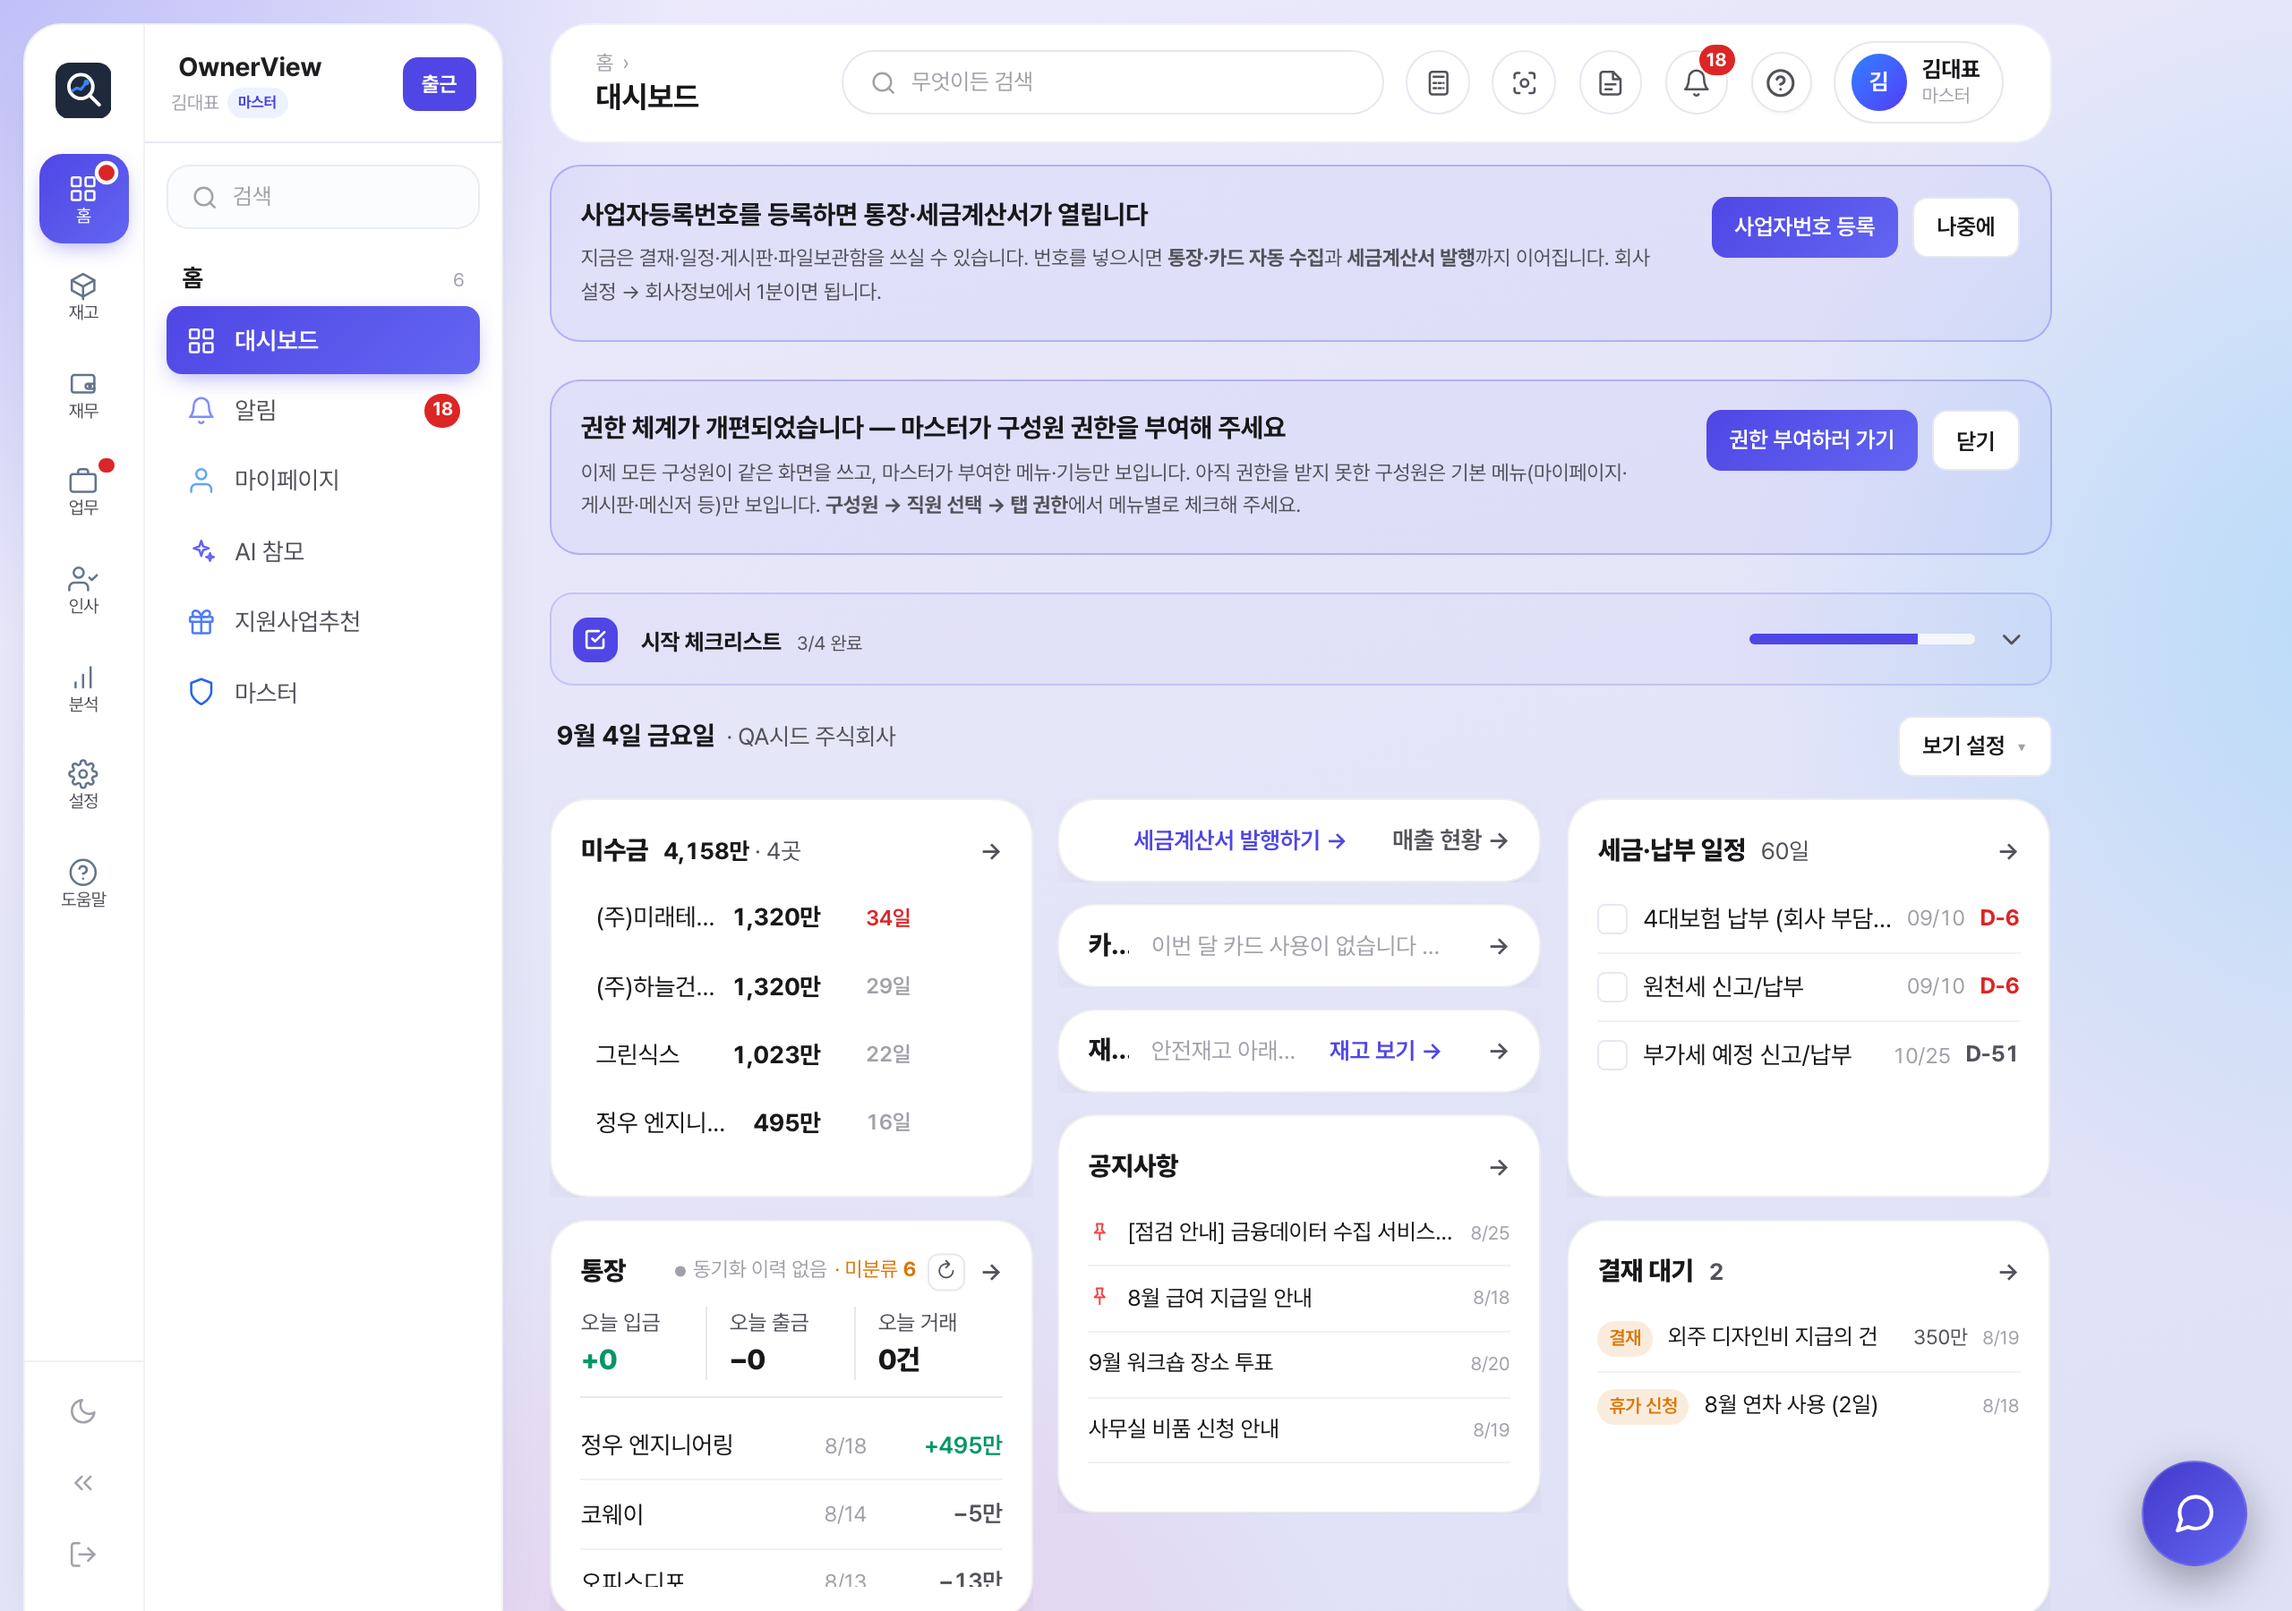
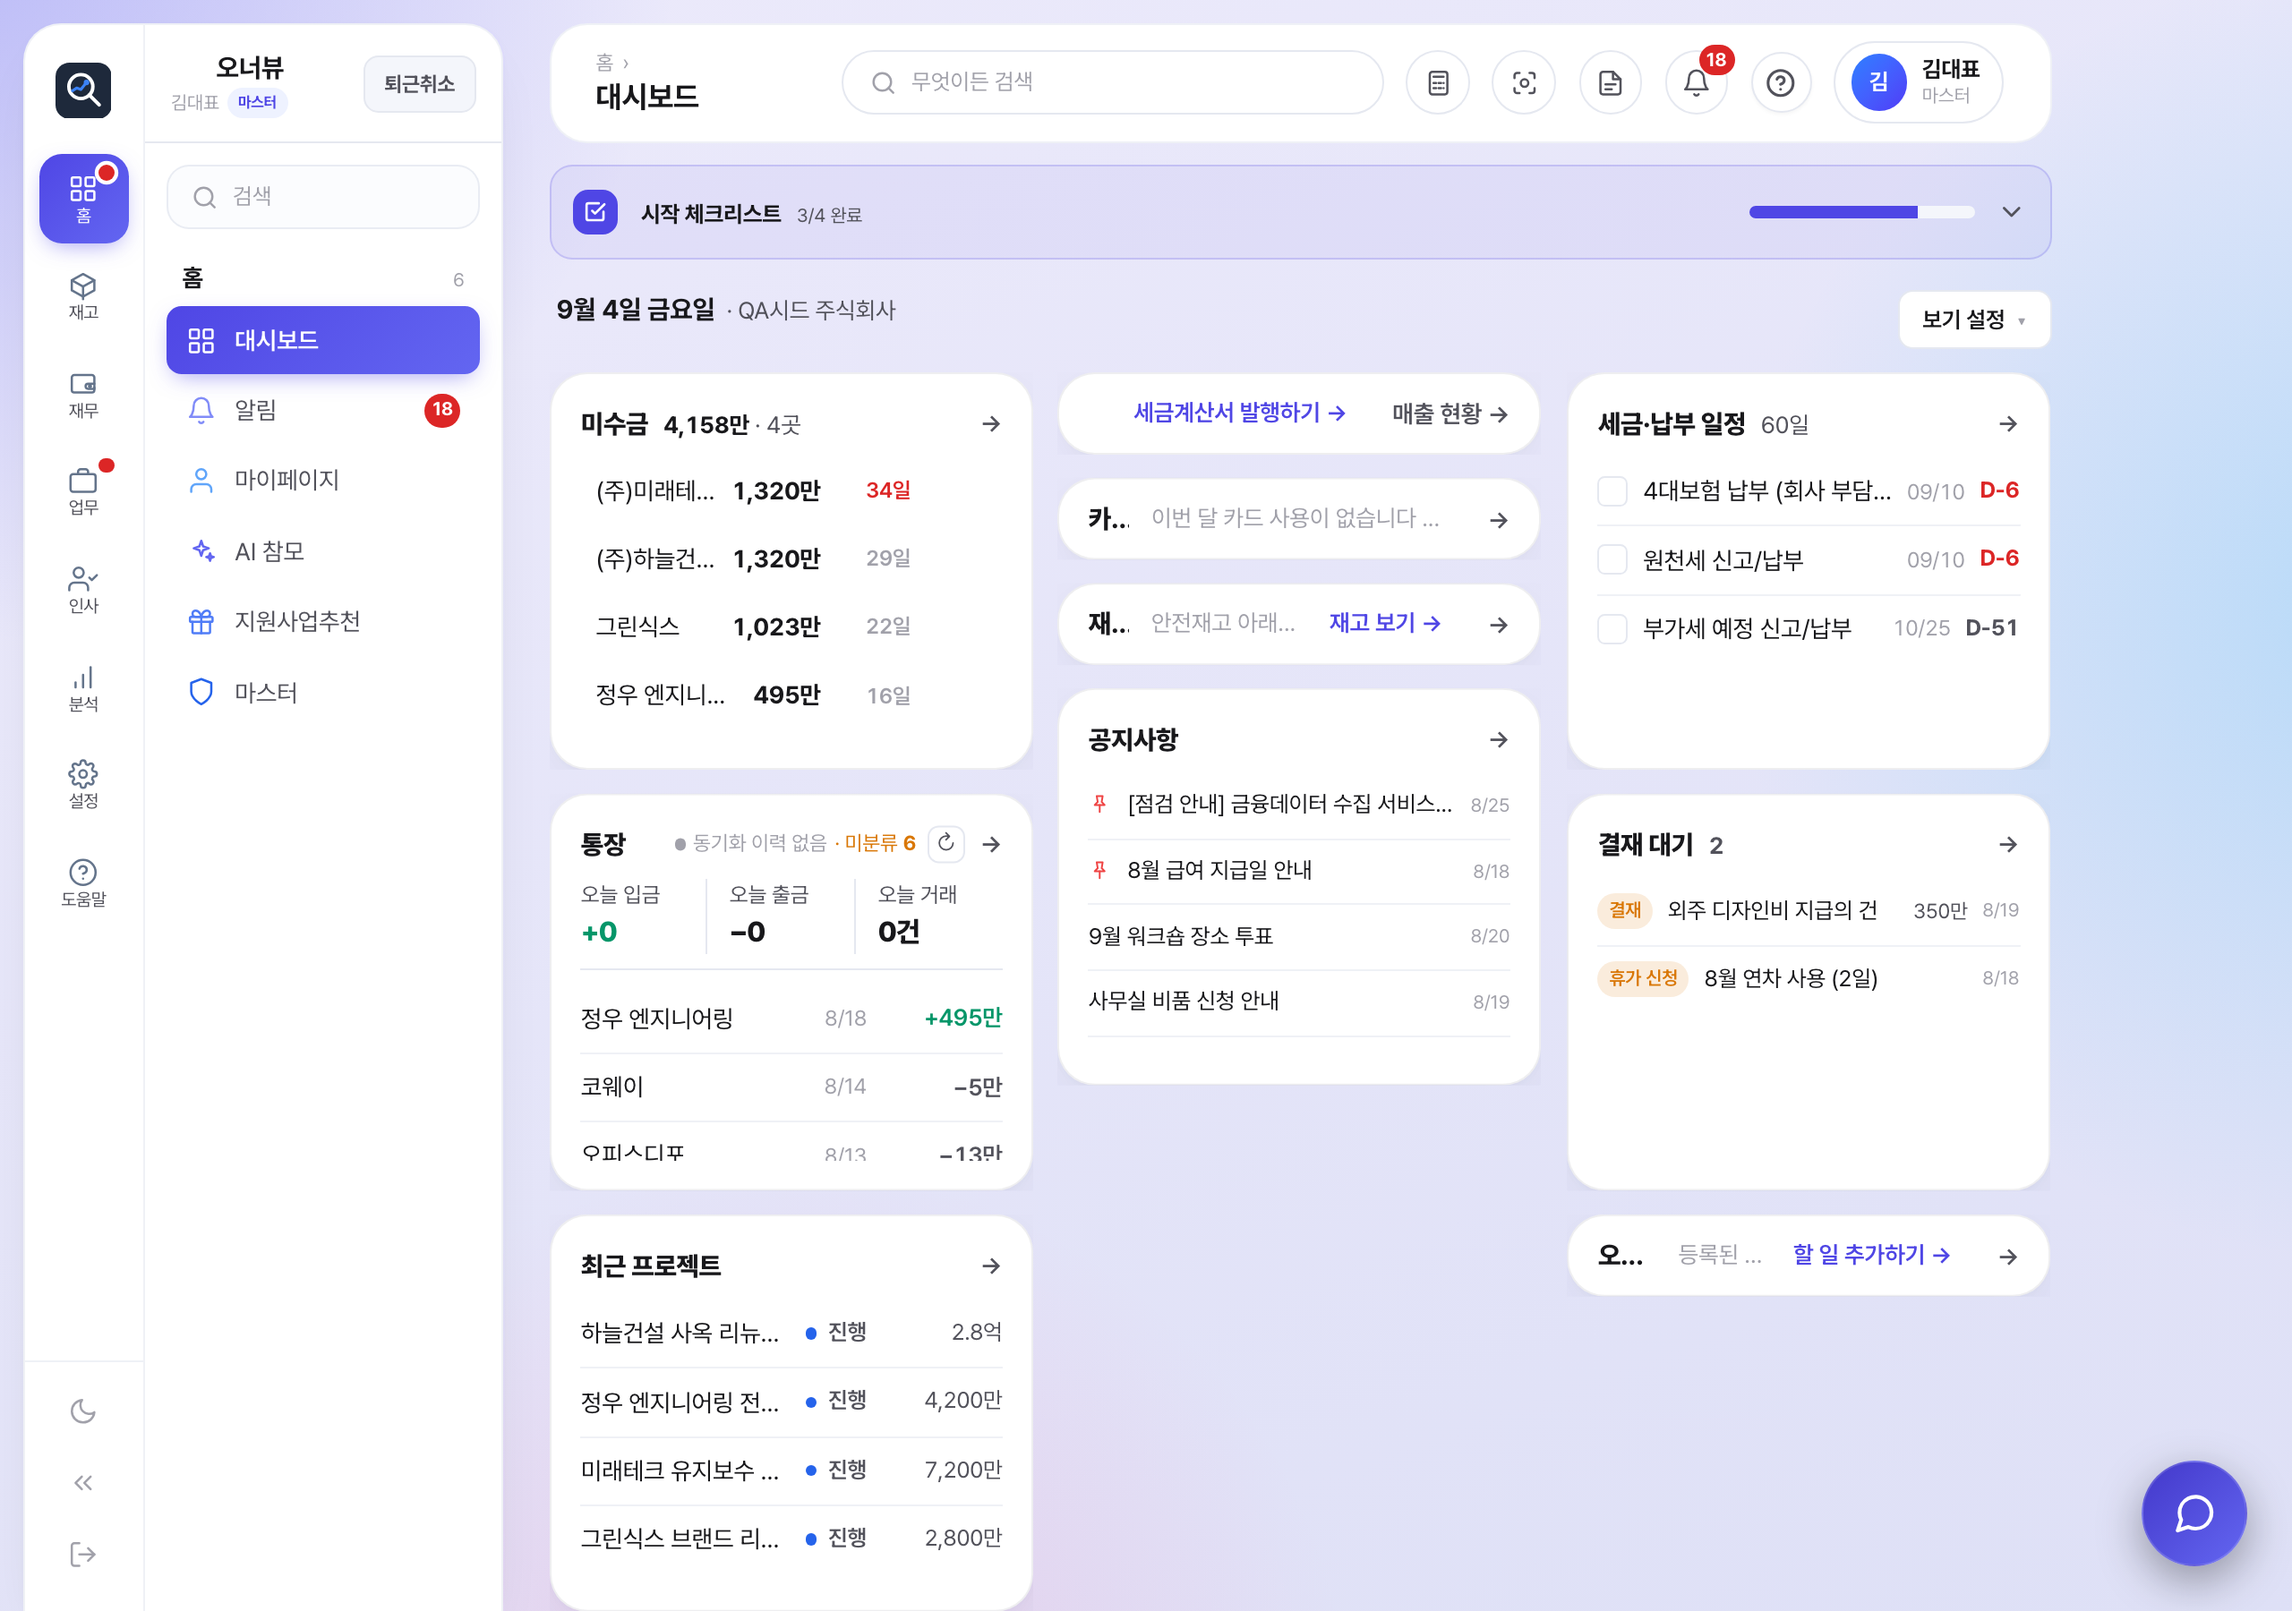
fix(블로그): 발행본 재점검 — 화면에 없는 것을 쓴 문장 3곳 정정
올린 글을 그림마다 앞뒤 문단과 함께 다시 읽으며 대조했다.

- 대시보드 문단이 "통장 잔고"를 말하는데 그 위젯에는 잔고가 없다(오늘 입출금과
  최근 거래만 나온다). 화면에 보이는 것 그대로 고쳤고, 안내 배너 두 개를 닫은
  상태로 다시 찍어 첫 화면이 대시보드 본문으로 시작하게 했다.
- "숫자를 누르면 목록으로 넘어간다"는 확인되지 않아 상자의 화살표로 바꿨다.
- 왕돈까스(간이)가 57 로 남는 이유를 "세금계산서 발급이 가능한 곳이라"로만 적어
  근거가 화면에 없었다. 국세청 조회에 '세금계산서 발급사업자'로 나오는 간이라는
  점을 밝혔다(merchant-tax-type.ts 의 판정과 같은 근거).
- 연결 방법을 "공동인증서로"라고만 썼는데 설정 화면은 공동인증서 또는 인터넷뱅킹
  아이디를 받는다. 둘 다 적었다.

Claude-Session: https://claude.ai/code/session_01LfxW2SwyZ3bvdYQEsdQnLc

diff --git a/content/blog/ownerview-intro.md b/content/blog/ownerview-intro.md
@@ -18,9 +18,9 @@ cover: /blog/ownerview-intro/dashboard.png
 
 ## 아침에 열면 이게 먼저 보여요
 
-![홈 › 대시보드 — 미수금·통장·세금 일정·공지·결재 대기](/blog/ownerview-intro/dashboard.png)
+![홈 › 대시보드 — 미수금·통장·세금 납부 일정·공지·결재 대기](/blog/ownerview-intro/dashboard.png)
 
-받을 돈(미수금), 통장 잔고와 오늘 입출금, 다가오는 세금 일정, 결재 대기, 공지까지 한 화면에 있어요. 숫자를 누르면 그 목록으로 바로 넘어가요.
+받을 돈(미수금)은 거래처별 금액과 며칠 지났는지까지, 통장은 오늘 입출금과 최근 거래가, 세금·납부 일정은 4대보험·원천세·부가세가 며칠 남았는지가 한 화면에 있어요. 결재 대기와 공지도 같이 보여요. 상자마다 있는 화살표를 누르면 그 목록으로 넘어가요.
 
 ## 카드와 통장은 줄마다 스스로 정리돼요
 
@@ -73,7 +73,7 @@ cover: /blog/ownerview-intro/dashboard.png
 ## 시작은 3분이면 돼요
 
 - 가입하고 회사 이름과 사업자등록번호를 넣어요.
-- 통장과 카드를 연결해요. 공동인증서로 한 번만 하면 돼요.
+- 통장과 카드를 연결해요. 공동인증서나 인터넷뱅킹 아이디로 한 번만 하면 돼요.
 - 다음 날 아침이면 거래가 줄 세워져 있어요.
 
 연결 전에 화면부터 보고 싶으면, 가입 직후 **샘플 회사 체험**으로 자료가 채워진 상태를 먼저 둘러보실 수 있어요.

diff --git a/content/blog/card-vat-deduction.md b/content/blog/card-vat-deduction.md
@@ -42,7 +42,7 @@ cover: /blog/card-vat-deduction/card-tab.png
 
 ![신용카드 표 — 코레일 줄은 구분 면세·유형 58·부가세 0](/blog/card-vat-deduction/card-table.png)
 
-위 화면의 코레일 결제를 보면 구분이 면세, 유형이 58이에요. 여객운송은 면세라 부가세 칸이 0이고, 공제 대상에서 빠져요. 왕돈까스 본점은 간이과세자지만 세금계산서 발급이 가능한 곳이라 57로 남아 있어요.
+위 화면의 코레일 결제를 보면 구분이 면세, 유형이 58이에요. 여객운송은 면세라 부가세 칸이 0이고, 공제 대상에서 빠져요. 왕돈까스 본점은 구분이 간이인데도 57로 남아 있어요. 국세청 조회에 "세금계산서 발급사업자"인 간이과세자로 나오는 곳이라, 이 경우에는 공제가 되거든요.
 
 사업자번호가 비어 있는 줄도 있어요. 카드사가 번호를 안 보내 주는 경우인데, 같은 가맹점의 다른 결제에 번호가 있으면 오너뷰가 그 번호를 빌려 와요. 해외 결제는 번호가 없는 게 정상이에요.
 
